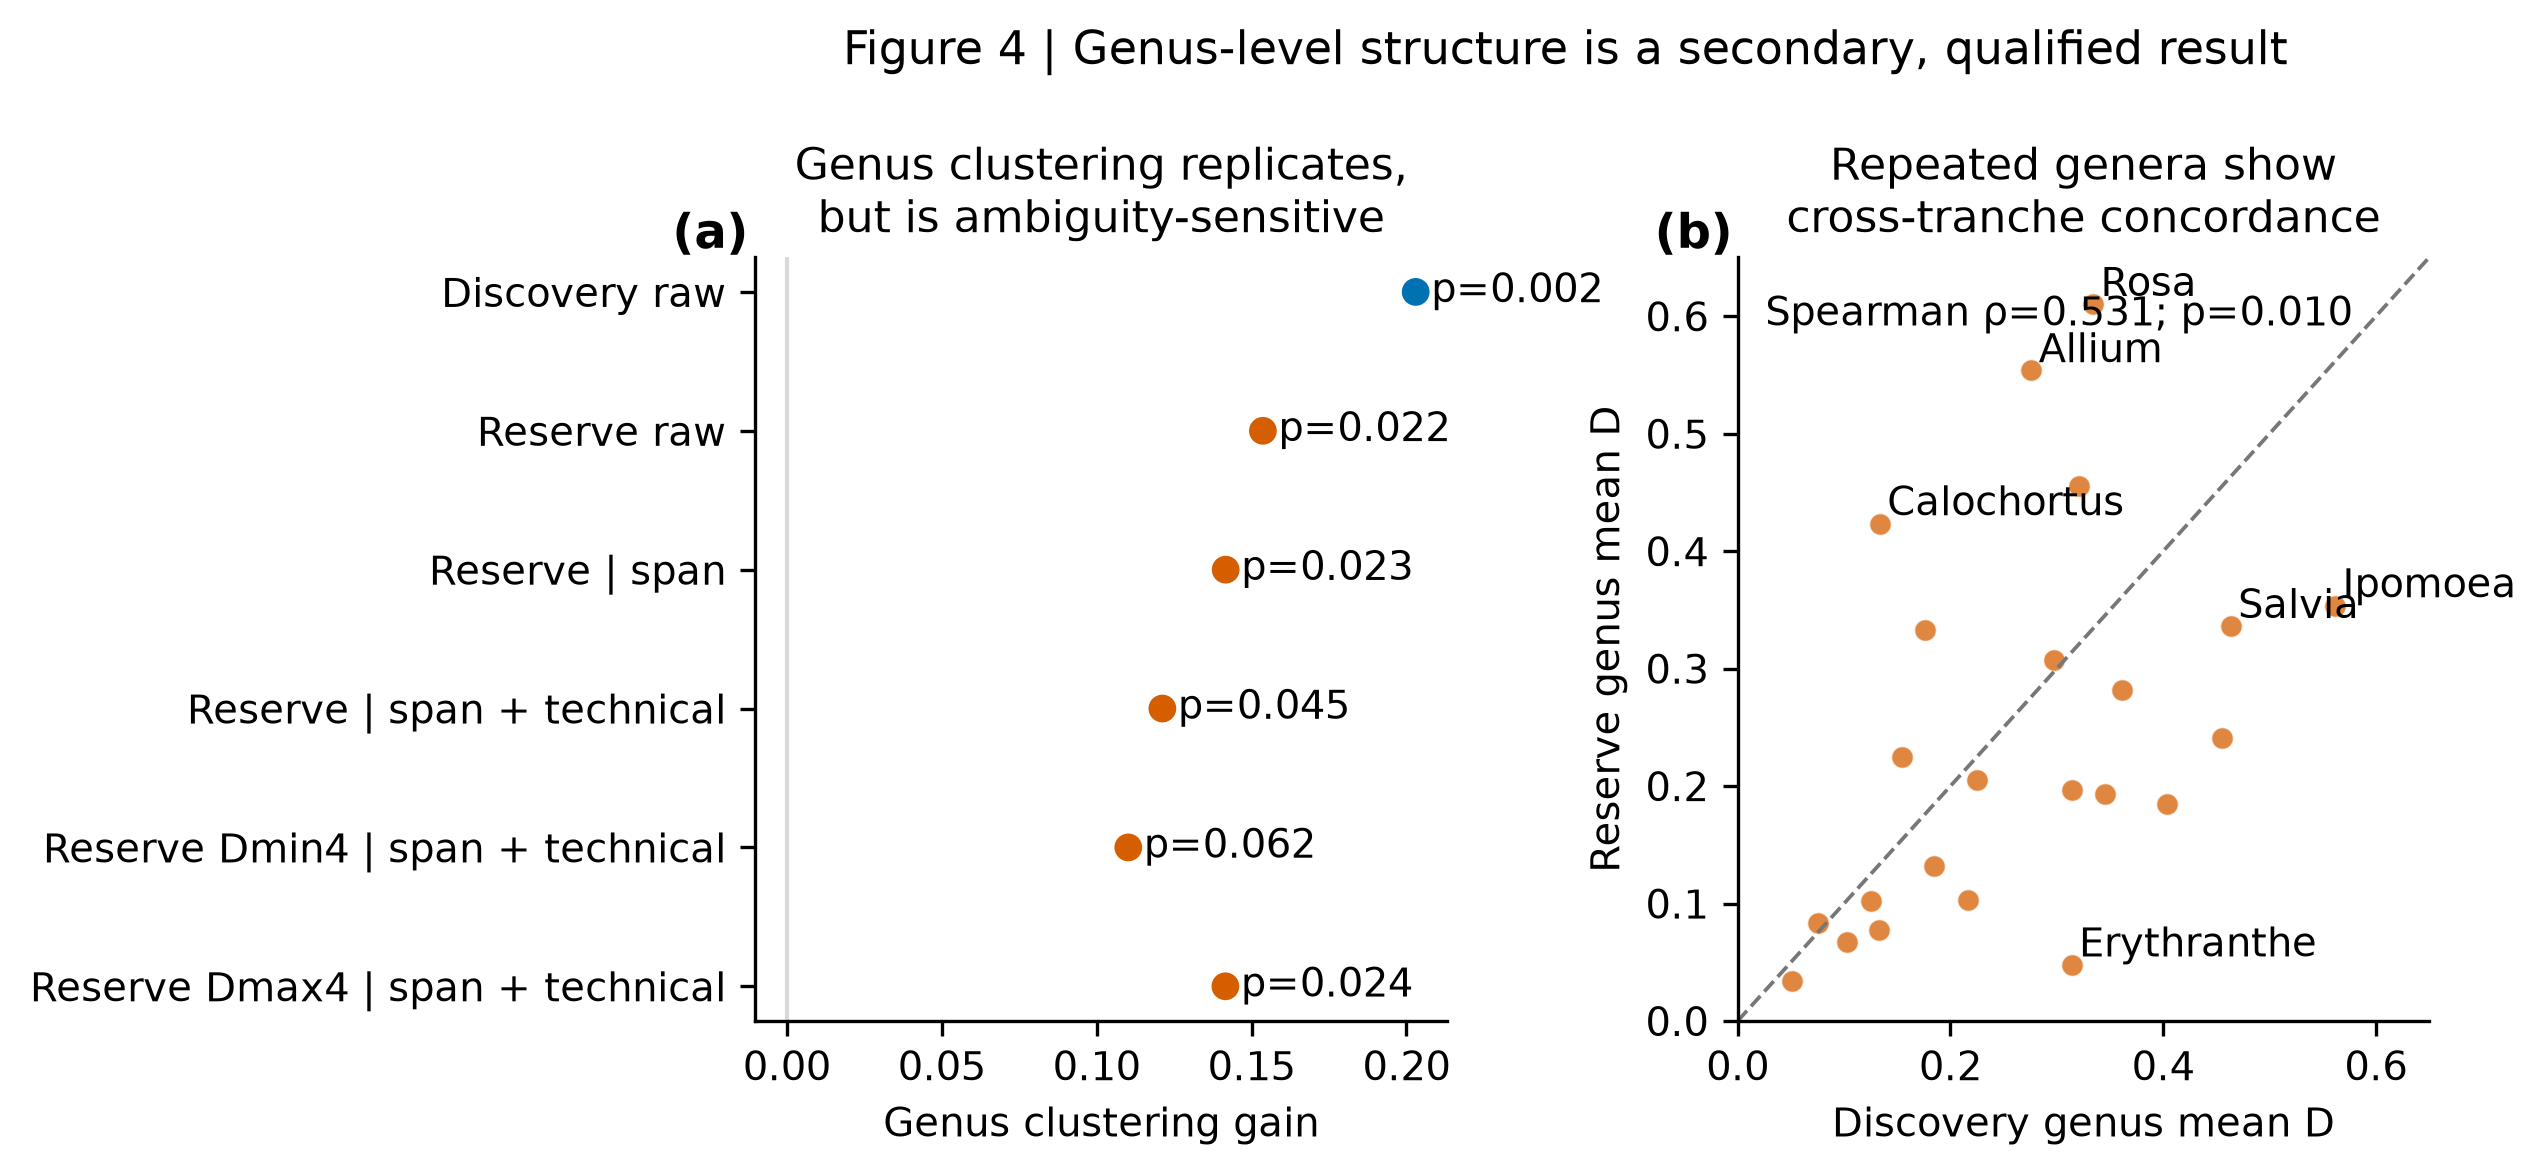
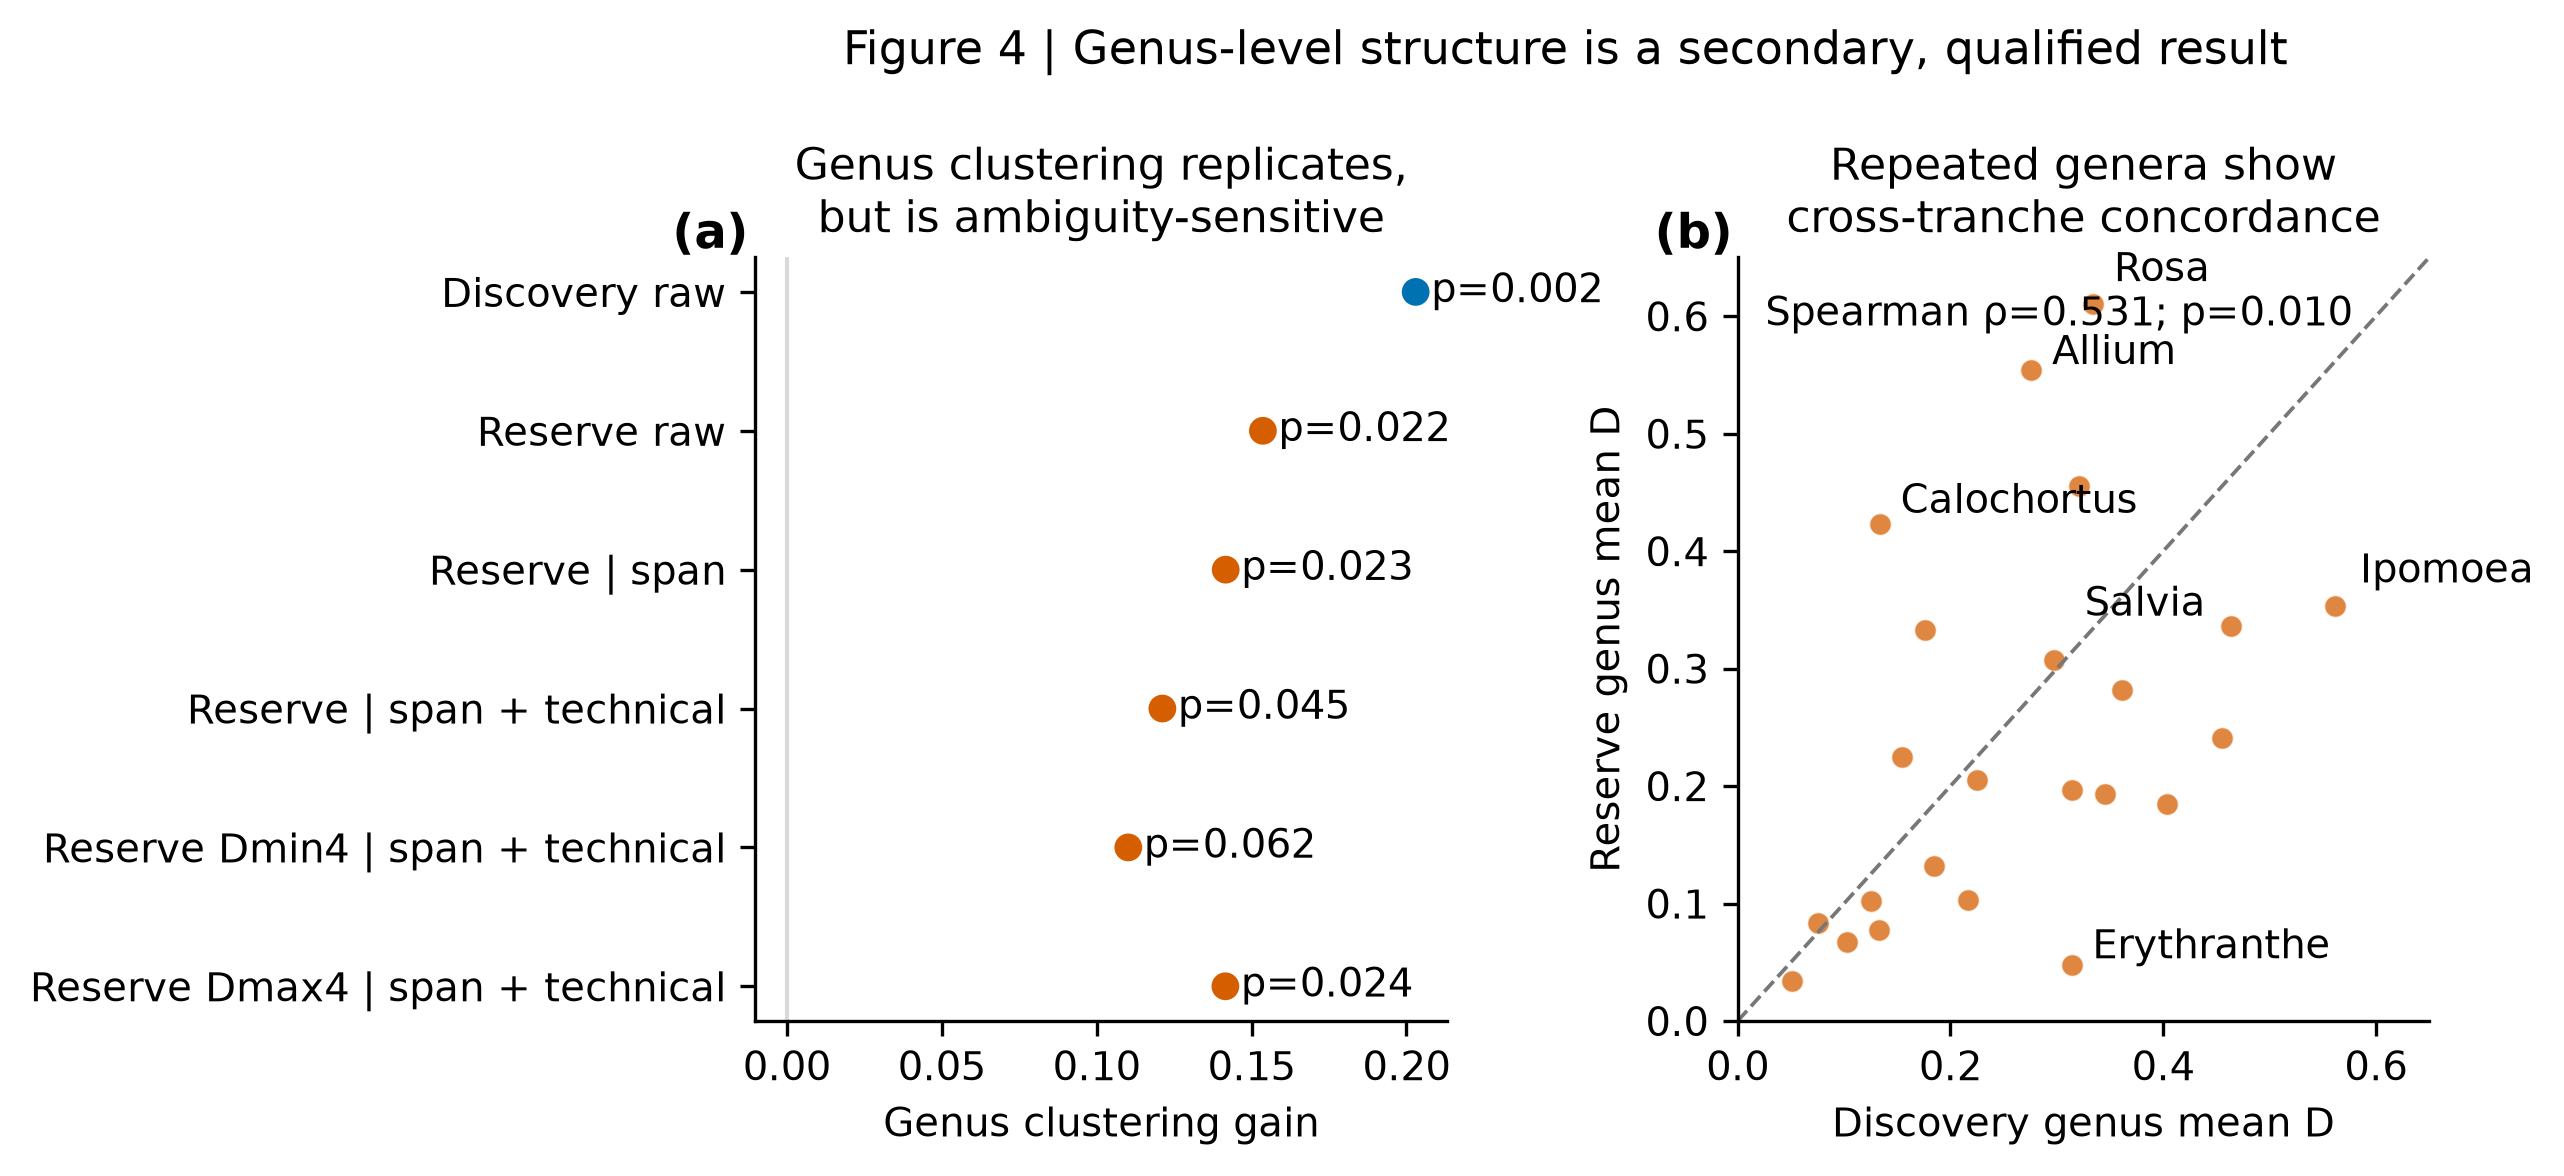
Resolve final FCP figure label collisions

diff --git a/scripts/analysis/render_polymorphism_paper_v0_1_figures_20260910.py b/scripts/analysis/render_polymorphism_paper_v0_1_figures_20260910.py
@@ -175,7 +175,7 @@ def figure2(numbers: dict[str, Any]) -> list[Path]:
     ax = fig.add_subplot(gs[1, 0])
     panel(ax, "C")
     x_positions = [0, 1, 3, 4]
-    labels = ["Disc.\n<10%", "Disc.\n≥10%", "Reserve\n<10%", "Reserve\n≥10%"]
+    labels = ["Disc.\n<10%", "Disc.\n≥10%", "Res.\n<10%", "Res.\n≥10%"]
     datasets = [
         d.loc[~d["primary_second_ge_0_10"].astype(bool), "spatial_rho"].to_numpy(float),
         d.loc[d["primary_second_ge_0_10"].astype(bool), "spatial_rho"].to_numpy(float),
@@ -332,9 +332,26 @@ def figure4(numbers: dict[str, Any]) -> list[Path]:
     ax.text(0.04, 0.95, f"Spearman ρ={numbers['genus_secondary']['shared_23_rho']:.3f}; {ptxt(numbers['genus_secondary']['shared_23_p'])}", transform=ax.transAxes, va="top", fontsize=9.5)
     deviation = np.abs(shared["reserve_mean_D"].to_numpy() - shared["discovery_mean_D"].to_numpy())
     label_idx = set(np.argsort(deviation)[-4:].tolist()) | set(np.argsort(shared["discovery_mean_D"].to_numpy())[-2:].tolist())
+    label_offsets = {
+        "Allium": (5, 4, "left"),
+        "Calochortus": (5, 5, "left"),
+        "Erythranthe": (5, 4, "left"),
+        "Ipomoea": (6, 8, "left"),
+        "Rosa": (5, 8, "left"),
+        "Salvia": (-6, 5, "right"),
+    }
     for i in sorted(label_idx):
         row = shared.iloc[i]
-        ax.text(row.discovery_mean_D + 0.007, row.reserve_mean_D + 0.007, row.genus, fontsize=9.5)
+        dx, dy, ha = label_offsets.get(row.genus, (5, 5, "left"))
+        ax.annotate(
+            row.genus,
+            (row.discovery_mean_D, row.reserve_mean_D),
+            xytext=(dx, dy),
+            textcoords="offset points",
+            ha=ha,
+            va="center",
+            fontsize=9.5,
+        )
 
     fig.suptitle("Figure 4 | Genus-level structure is a secondary, qualified result", fontsize=11, y=0.98)
     return save(fig, "figure4_genus_taxonomic_structure")
